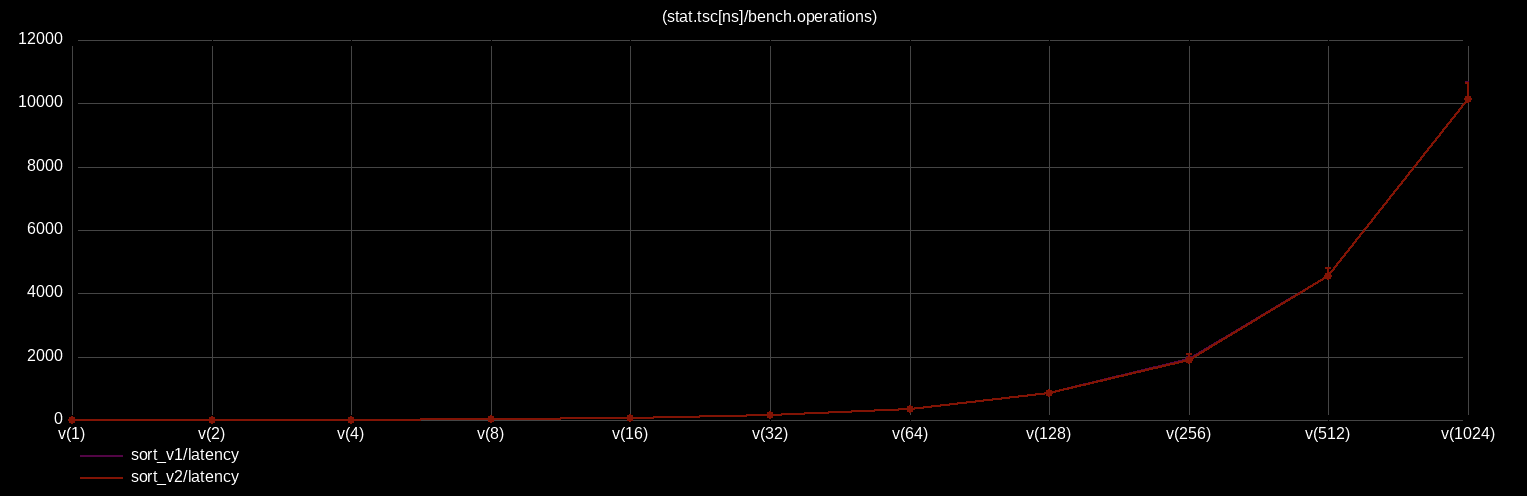
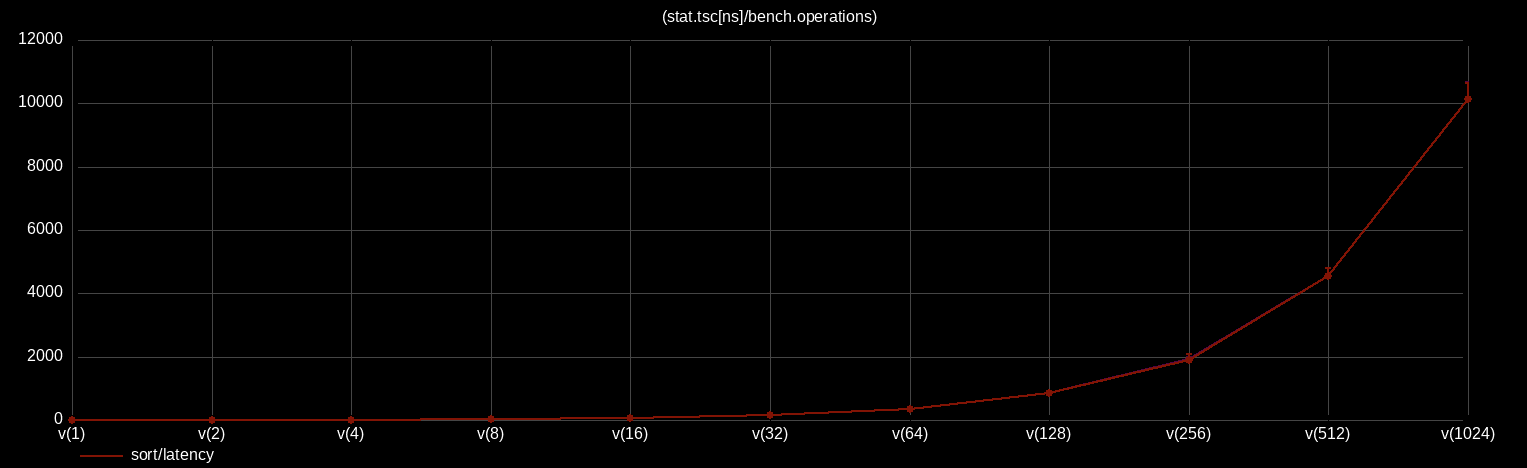
cppcon-2025

diff --git a/cppcon-2025/index.html b/cppcon-2025/index.html
@@ -307,7 +307,7 @@
     └── Application
       └── µArch
 
-            perf stat/record ...
+            perf stat/record -e cycles:u ...
 ```
 
 ```cpp
@@ -749,34 +749,19 @@ for (auto i = 0u; i < n; ++i) {       // seq, unseq, unroll
 ----
 
 ```cpp
-int main() {
-  {
-    perf::runner bench{perf::bench::latency{}};
+auto latency = // ns/op
+  perf::stat::tsc / perf::bench::operations;
 
-    bench(fizz_buzz, {});
 
-    perf::report(
-      bench[perf::stat::tsc / perf::bench::operations] // ns/op
-    );
-  }
+auto throughput  = // op/s
+  perf::bench::operations / seconds(perf::stat::tsc);
 
-  {
-    perf::runner bench{
-      perf::bench::throughput{.policy = seq},
-      perf::bench::throughput{.policy = unseq},
-      perf::bench::throughput{.policy = unroll},
-    };
+auto throughput_ = // Gb/s
+  (perf::bench::operations * arg("size")) / seconds(perf::stat::tsc);
 
-    bench(fizz_buzz, {});
-
-    perf::report(
-      bench[perf::bench::operations / seconds(perf::stat::tsc)] // op/s
-      // bench[perf::stat::tsc / perf::bench::operations]       // ns/op (inverse throughput)
-    );
-  }
-}
+auto inverse_throughput = // ns/op
+  perf::stat::tsc / perf::bench::operations;
 ```
-<!-- .element: style="text-align:left; font-size:17px; " -->
 
 ----
 
@@ -825,7 +810,6 @@ int main() {
 
 ```cpp
 // Modern branch predictor can learn ~10'000 1/0 branches
-// - branch aliasing - multiple branches map to the same predictor entry
 // - no history { backward = taken, forward = not_taken }
 ```
 <!-- .element: style="font-size:21px;" -->
@@ -838,7 +822,7 @@ int main() {
 /**
  * vary(measure(repeat(fn)) -> measure(repeat(vary(fn))
  */
-for (auto i = 0u; i < iterations; ++i) {
+for (auto i = 0u; i < n; ++i) {
   // fn(ts...);
   fn(ts[i]...); // vary inputs per iteration based on the distribution
 }
@@ -875,7 +859,6 @@ int main() {
 <!-- .element: style="font-size:17px;" -->
 
 ```cpp
-// unpredictable<int> | perf::memory::heap::pollute | to<std::unordered_map<int>>(1'000)
 // perf::memory::heap::pollute(); // prevents continuous allocation # used with containers
 ```
 <!-- .element: style="font-size:15px;" -->
@@ -1317,7 +1300,7 @@ perf::log(profiler[]); // [] - all elements
  stat.branch_misses:
    53
  trace.instructions:
-   0xf400 6 // ip size
+   0xf400 6 // ip size # instruction pointer
    0xf404 5
    ...
  trace.cycles:
@@ -1439,7 +1422,7 @@ perf::annotate(analyzer[]); // per instruction pointer (IP)
 
 ----
 
-#### latency vs. rthroughput vs. uops vs...
+#### uops vs. size. vs. latency vs...
 <!-- .element: style="text-align:left; margin: 0px 0px;" -->
 
 <table>
@@ -1637,7 +1620,7 @@ perf::annotate(analyzer[]);
 
 ----
 
-#### disassemble vs. trace
+#### region vs. trace
 <!-- .element: style="text-align:left" -->
 
 ```cpp
@@ -1660,7 +1643,7 @@ profiler.stop();
 ----
 
 ```cpp
-// disassemble                         // trace
+// region                             // trace
 ```
 <!-- .element: style="font-size:20px" -->
 
@@ -1718,7 +1701,7 @@ int main() {
 
 ```cpp
 perf::annotate<vsplit>(
-  bench[perf::mca::assembly] // disassemble
+  bench[perf::mca::assembly] // region(fn.entry, fn.exit);
 );
 ```
 <!-- .element: style="font-size:17px" -->
@@ -1934,7 +1917,7 @@ main;render 7
 
 ```cpp
 // Establishing the baseline
-// Reducing instruction count / Increasing instructions|µops per cycle
+// Reducing overall instruction count / Increasing instructions|µops per cycle
 // Top down Microarchitecture Analysis Method
 ```
 
@@ -1949,7 +1932,7 @@ Modern CPUs are primarily bottlenecked by
 
 ```sh
   Approaches
-   - Reducing instruction count
+   - Reducing overall instruction count
        perf::stat::instructions
        perf::record::instructions
        perf::trace::instructions
@@ -2164,11 +2147,7 @@ using mca::bottleneck;
 int main() {
   perf::runner bench{perf::bench::latency{}};
 
-  auto sort_v1 = [](std::vector<int>& v) {
-    std::ranges::sort(v);
-  };
-
-  auto sort_v2 = []<auto cfg>(std::vector<int>& v) {
+  auto sort = []<auto cfg>(std::vector<int>& v) {
     std::ranges::sort(v);
     if constexpr (cfg.debug) { // not measured
       perf::verify(is_sorted(v));
@@ -2176,46 +2155,16 @@ int main() {
   };
 
   for (auto i = 1; i <= 1024; i *= 2) {
-    bench(sort_v1, unpredictable<int> | to<std::vector>(i));
-    bench(sort_v2, unpredictable<int> | to<std::vector>(i));
+    bench(sort, unpredictable<int> | to<std::vector>(i));
   }
 
-  // ...
+  perf::plot::errorbar(bench[perf::stat::tsc / perf::bench::operations]);
 }
 ```
-<!-- .element: style="text-align:left; font-size:20px;" -->
-
-----
-
-```cpp
-perf::report<split>(bench[perf::stat::tsc / perf::bench::operations, perf::bench::operations], min);
-perf::plot::errorbar(bench[perf::stat::tsc / perf::bench::operations]);
-```
-<!-- .element: style="text-align:left; font-size:14px;" -->
-
-```cpp
-benchmark                                 [1]              [2]     benchmark                                 [1]              [2]
-------------------------  -------------------  ---------------     ------------------------  -------------------  ---------------
-sort_v1(v(1))/latency     (1111.15x)     9.16    (1.05x) 28480     sort_v2(v(1))/latency     (1097.21x)     9.28    (1.01x) 29584
-sort_v1(v(2))/latency      (975.52x)    10.44    (1.00x) 29820     sort_v2(v(2))/latency      (926.80x)    10.98    (1.04x) 28718
-sort_v1(v(4))/latency      (816.24x)    12.47    (1.08x) 27699     sort_v2(v(4))/latency      (872.65x)    11.67    (1.09x) 27328
-sort_v1(v(8))/latency      (399.79x)    25.46    (1.50x) 19814     sort_v2(v(8))/latency      (377.16x)    26.99    (1.56x) 19134
-sort_v1(v(16))/latency     (131.17x)    77.61    (3.19x)  9353     sort_v2(v(16))/latency     (132.18x)    77.02    (3.17x)  9414
-sort_v1(v(32))/latency      (76.22x)   133.56    (5.39x)  5528     sort_v2(v(32))/latency      (80.41x)   126.60    (5.15x)  5786
-sort_v1(v(64))/latency      (30.76x)   330.98   (11.53x)  2586     sort_v2(v(64))/latency      (30.61x)   332.55   (12.01x)  2483
-sort_v1(v(128))/latency     (12.18x)   835.59   (28.65x)  1041     sort_v2(v(128))/latency     (11.91x)   854.95   (28.98x)  1029
-sort_v1(v(256))/latency      (5.38x)  1891.72   (64.27x)   464     sort_v2(v(256))/latency      (5.36x)  1899.39   (61.48x)   485
-sort_v1(v(512))/latency      (2.24x)  4554.20  (149.85x)   199     sort_v2(v(512))/latency      (2.22x)  4589.61  (144.06x)   207
-sort_v1(v(1024))/latency     (1.00x) 10180.22  (298.20x)   100     sort_v2(v(1024))/latency     (1.00x) 10143.13  (298.20x)   100
-
-(0) speedup(slowest:1.00x)                                         (0) speedup(slowest:1.00x)
-[1] min((stat.tsc[ns]/bench.operations))                           [1] min((stat.tsc[ns]/bench.operations))
-[2] min(bench.operations)                                          [2] min(bench.operations)
-```
-<!-- .element: style="text-align:left; font-size:11px;" -->
+<!-- .element: style="text-align:left; font-size:15px;" -->
 
 <p align="left">
-<img src="images/sort.png" style="width: 93%; background:none; border:none; box-shadow:none;" />
+<img src="images/sort.png" style="width: 90%; background:none; border:none; box-shadow:none;" />
 </p>
 
 ----
